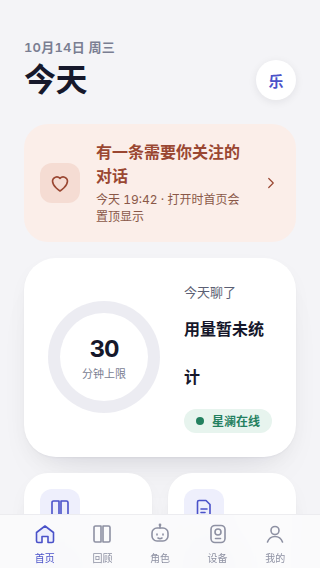
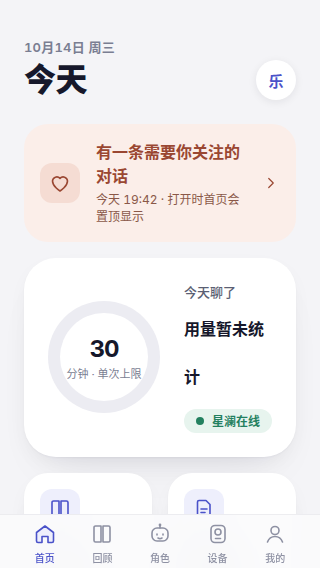
docs(miniprogram): v4 test report and shots for the session-limits read, offline stories and 关于 filing
03-home and 06-usage were shot again, along with the home and device page shots at 390 and 320. 03-home went from 0.0703 to 0.0711 and 06-usage from 0.1825 to 0.1823. compare-summary.json and pages/results.json were updated for those screens only.

The report now says that home reads today_used_minutes, which is always null, and that the ring shows the per-session cap without filling. The device page lists the three firmware story titles. 关于 names DeepSeek with its filing number, shown from the recorded wx.showModal call, because the harness cannot draw a native modal.

The stories bullet now says the clips are production recordings in a trial voice. It no longer calls them sine placeholders. Test counts, package size and the home and device setData numbers are measured again.

diff --git a/docs/design/app-v4/TEST-REPORT.md b/docs/design/app-v4/TEST-REPORT.md
@@ -2,19 +2,19 @@
 
 This report records how the v4 restyle of the Memoria WeChat mini program was tested on branch `cursor/miniprogram-design-v4-14a0`. It covers every page under `apps/miniprogram/pages`. It lists the commands, the measured results, side-by-side images against the design PNGs in this folder, and each place where the mini program still differs from the design.
 
-The performance table comes from runs on 2026-10-14. The unit tests, forbidden-copy check, package size, layout shots and the 05-attention and 09-memory parity ratios were measured again on 2026-10-15. Both days used a Linux cloud VM with 4 cores, Node v22.14.0 and headless Chrome driven by puppeteer-core. Nothing ran in WeChat DevTools, through miniprogram-automator or on a phone, because none of them is available on the VM. The harness approximates the WeChat renderer. Read the images as close evidence of layout and copy, not as proof of on-device pixels.
+The performance table comes from runs on 2026-10-14. The unit tests, forbidden-copy check, package size, layout shots and the 05-attention and 09-memory parity ratios were measured again on 2026-10-15. Later that day, the session-limits and stories change made home and device read two new parent APIs. The tests, package size, 03-home and 06-usage parity shots, and the home and device page shots were then measured a third time. Both days used a Linux cloud VM with 4 cores, Node v22.14.0 and headless Chrome driven by puppeteer-core. Nothing ran in WeChat DevTools, through miniprogram-automator or on a phone, because none of them is available on the VM. The harness approximates the WeChat renderer. Read the images as close evidence of layout and copy, not as proof of on-device pixels.
 
 ## Results
 
 | Check | Result |
 |---|---|
-| Unit, function, perf and layout tests (`npm test`) | 525 of 525 pass, 0 skipped |
+| Unit, function, perf and layout tests (`npm test`) | 529 of 529 pass, 0 skipped |
 | Forbidden UI copy (`npm run check:forbidden-copy`) | Pass on 63 files |
 | `12356` in shipped `.js`, `.wxml`, `.json` and `.wxss` files | Only in `pages/attention/index.wxml`, tip 4, pinned by `attention-v4.test.js` |
-| `node --check` on every tracked JS file in the app | 0 failures in 134 files |
+| `node --check` on every tracked JS file in the app | 0 failures in 135 files |
 | Page screenshots at five views (`scripts/screenshot-pages.js`) | 145 shots, 0 layout issues |
 | Parity side-by-sides (`scripts/v4-parity/render-and-compare.js`) | 9 mapped screens, diffRatio 0.056 to 0.298, down from 0.245 to 0.647 |
-| Main package before minification (`scripts/package-size.js`) | 1870.4 KiB of the 2048 KiB limit |
+| Main package before minification (`scripts/package-size.js`) | 1870.9 KiB of the 2048 KiB limit |
 
 ## How the harness works
 
@@ -76,15 +76,17 @@ Do not run `npm --prefix apps/miniprogram exec -- node scripts/v4-parity/render-
 |---|---|---:|---:|---:|
 | 01-login | `pages/home`, guest | 0.6475 | 0.0575 | 0.0572 |
 | 02-consent | `pages/auth`, guest | 0.3906 | 0.0945 | 0.0883 |
-| 03-home | `pages/home`, signed in | 0.3162 | 0.0703 | 0.0490 |
+| 03-home | `pages/home`, signed in | 0.3162 | 0.0711 | 0.0490 |
 | 04-summary | `pages/memory`, today summarized | 0.3394 | 0.1901 | 0.0430 |
 | 05-attention | `pages/attention`, one open alert | 0.4991 | 0.0561 | 0.0536 |
-| 06-usage | `pages/device`, child usage settings | 0.2527 | 0.1825 | 0.0527 |
+| 06-usage | `pages/device`, child usage settings | 0.2527 | 0.1823 | 0.0527 |
 | 08-roles | `pages/companion` | 0.3539 | 0.1810 | 0.0727 |
 | 09-memory | `pages/child-memory`, long-term memory | 0.3706 | 0.2984 | 0.0279 |
 | 10-profile | `pages/profile`, signed in | 0.2450 | 0.0715 | 0.0116 |
 
 Before is the committed `compare-summary.json` at `b63fa853`. That run shot 05-attention on the review tab, where the alert rendered inline. It now shoots the attention detail page the design shows. A rerun on 2026-10-15 with Noto Sans CJK SC left 01-login byte-identical to the committed shot. The other screens whose pages did not change moved by at most 0.006 against the design, from font raster differences, so their shots stay. 05-attention and 09-memory are the screens this change redraws.
+
+The session-limits and stories change redraws 03-home and 06-usage, and only those two were shot again. 03-home went from 0.0703 to 0.0711. Its ring band, from 316 CSS px, rose from 0.122 to 0.125 when the caption grew from 「分钟上限」 to 「分钟 · 单次上限」. 06-usage went from 0.1825 to 0.1823. The new 离线故事 card fills the space below 安静时段 where the privacy rows were. The design shows other content there, so the card counts as a difference just as the rows did. 10-profile was not shot again. Its page looks the same, and the new 关于 line lives in a native modal the harness cannot draw.
 
 ### Where the remaining difference sits
 
@@ -94,10 +96,10 @@ Before is the committed `compare-summary.json` at `b63fa853`. That run shot 05-a
 |---|---:|---:|---:|---:|---:|---:|---:|---:|
 | 01-login | 0.001 | 0.063 | 0.001 | 0.095 | 0.191 | 0.044 | 0.034 | 0.031 |
 | 02-consent | 0.019 | 0.039 | 0.043 | 0.139 | 0.098 | 0.232 | 0.111 | 0.075 |
-| 03-home | 0.016 | 0.065 | 0.072 | 0.122 | 0.032 | 0.116 | 0.122 | 0.017 |
+| 03-home | 0.016 | 0.066 | 0.072 | 0.125 | 0.033 | 0.116 | 0.122 | 0.020 |
 | 04-summary | 0.017 | 0.059 | 0.040 | 0.063 | 0.055 | 0.349 | 0.769 | 0.168 |
 | 05-attention | 0.004 | 0.008 | 0.030 | 0.082 | 0.052 | 0.077 | 0.108 | 0.088 |
-| 06-usage | 0.024 | 0.066 | 0.161 | 0.045 | 0.260 | 0.444 | 0.287 | 0.172 |
+| 06-usage | 0.027 | 0.070 | 0.165 | 0.045 | 0.260 | 0.444 | 0.273 | 0.175 |
 | 08-roles | 0.013 | 0.068 | 0.260 | 0.110 | 0.268 | 0.126 | 0.543 | 0.061 |
 | 09-memory | 0.039 | 0.076 | 0.029 | 0.100 | 0.110 | 0.377 | 0.688 | 0.969 |
 | 10-profile | 0.000 | 0.039 | 0.030 | 0.032 | 0.015 | 0.015 | 0.262 | 0.179 |
@@ -128,7 +130,9 @@ The checkbox names 《隐私保护指引》, the document `wx.openPrivacyContrac
 
 ![03-home, live page left, design right](mp-screenshots/side-by-side/03-home.png)
 
-The cards, radii, shadows, gaps, type scale and icon tiles follow the design. The three bands above 0.1 are the ring, the stat units and the memory card. The ring shows the 30 minute limit on an empty track with 「用量暂未统计」, because no API field reports minutes used today. `home-v4-dashboard.test.js` covers both the empty ring and a ring filled from a real tally. 「今天对话 3 次」 replaces 「今天讲了 3 个故事」, and the 孩子的记忆 card replaces 今晚推荐, because no story field exists. The AI disclosure line replaces 「名字和数字均为示例」, and the pill names the fixture's role, 星澜.
+The cards, radii, shadows, gaps, type scale and icon tiles follow the design. The three bands above 0.1 are the ring, the stat units and the memory card. The ring shows the per-session cap from the signed Runtime Profile, 30 with 「分钟 · 单次上限」, on a track that never fills. Before this change the caption read 「分钟上限」, and the page had a fill path for a used-minutes tally divided by that cap. A per-day total over a per-session cap is the wrong ratio, so that path is gone. When the profile has no cap, the ring reads 未设置 above 单次上限, where it used to show a made-up 30.
+
+Home now reads `today_used_minutes` from `GET /v1/devices/{device_id}/session-limits`. The server always returns null, because nothing tallies minutes per day, so the line beside the ring reads 「用量暂未统计」. A number would show as 「今天聊了 N 分钟」 without a client release. `home-v4-dashboard.test.js` covers null, 18 and a failed call. 「今天对话 3 次」 replaces 「今天讲了 3 个故事」, and the 孩子的记忆 card replaces 今晚推荐, because no story field exists. The AI disclosure line replaces 「名字和数字均为示例」, and the pill names the fixture's role, 星澜.
 
 ### 04-summary
 
@@ -146,7 +150,9 @@ The attention detail page is new. Home's attention card and the review banner op
 
 ![06-usage, live page left, design right](mp-screenshots/side-by-side/06-usage.png)
 
-The slider card, the quiet-hours card, the online pill and the row chrome follow the design. The band from 211 CSS px is the ring, which shows the limit with 「用量暂未统计」 for the same reason as home. From 422 CSS px down, the difference is the design's second slider, 每天上限. The device enforces only the signed per-session `MAX_SESSION_SECONDS` limit, in `services/agent/src/voice_core/minor_session_limits.py`, so the page has one 单次上限 slider from 15 to 60 minutes. The design's 单次上限 runs from 10 to 30. 安静时段 shows the real window from 21:00 to 07:00 in place of 即将上线. That chip is wider, so the card copy wraps one character earlier. With one slider, the 隐私说明 and 管理与导出数据 rows rise into view. The eyebrow names the device with `devicePlaceName`, so it reads 「设备 · 孩子的星澜」.
+The slider card, the quiet-hours card, the online pill and the row chrome follow the design. The band from 211 CSS px is the ring. It shows the cap with 「分钟 · 单次上限」 and 「用量暂未统计」 for the same reason as home, and reads 未设置 when the profile has no cap. From 422 CSS px down, the difference is the design's second slider, 每天上限. The device enforces only the signed per-session `MAX_SESSION_SECONDS` limit, in `services/agent/src/voice_core/minor_session_limits.py`, so the page has one 单次上限 slider from 15 to 60 minutes. The design's 单次上限 runs from 10 to 30. 安静时段 shows the real window from 21:00 to 07:00 in place of 即将上线. That chip is wider, so the card copy wraps one character earlier. The eyebrow names the device with `devicePlaceName`, so it reads 「设备 · 孩子的星澜」.
+
+Before this change, the 隐私说明 and 管理与导出数据 rows came next. Now the 离线故事 card sits there, with the caption 「不联网也能听」 and one row per title from `GET /v1/devices/{device_id}/stories`. The first title, 小星星的枕头, is the last row above the tab bar. The privacy rows moved below the fold, and the full page grew by 288 px at 390. When the call fails or the list is empty, the card reads 「暂无可显示的离线故事」. The card shows titles only, with no play button, because the clips play on the robot. The band from 633 CSS px fell from 0.287 to 0.273.
 
 ### 08-roles
 
@@ -166,7 +172,17 @@ Three content differences remain. The title names the child, 乐乐的记忆, wh
 
 ![10-profile, live page left, design right](mp-screenshots/side-by-side/10-profile.png)
 
-The page has the design's title, the account card with 「已绑定 1 台设备」, the device card with the mascot, and the four rows 设备管理, 授权与隐私说明, 帮助与反馈 and 关于. 帮助与反馈 is WeChat's native feedback button. 关于 shows 「陪孩子聊天、讲故事的 AI 助手。」 and the version. 授权与隐私说明 opens the raw-audio consent page when that capability is open, and WeChat's privacy guideline otherwise. The role and custom persona rows moved to the 角色 tab.
+The page has the design's title, the account card with 「已绑定 1 台设备」, the device card with the mascot, and the four rows 设备管理, 授权与隐私说明, 帮助与反馈 and 关于. 帮助与反馈 is WeChat's native feedback button. 授权与隐私说明 opens the raw-audio consent page when that capability is open, and WeChat's privacy guideline otherwise. The role and custom persona rows moved to the 角色 tab.
+
+关于 opens a native modal with three lines: 「陪孩子聊天、讲故事的 AI 助手。」, 「对话大模型：DeepSeek（备案号 Beijing-DeepseekChat-202404280016）」 and the version. The filing line names DeepSeek only. Before this change the modal had the tagline and the version. The harness cannot draw a native modal, and the page itself did not change, so this shot was not taken again. The evidence is the `wx.showModal` call that `profile-v4.test.js` records in a develop build:
+
+```text
+title: 关于 Memoria
+content: 陪孩子聊天、讲故事的 AI 助手。
+         对话大模型：DeepSeek（备案号 Beijing-DeepseekChat-202404280016）
+         开发版
+showCancel: false, confirmText: 知道了
+```
 
 The device card reads 孩子的星澜 with 已绑定设备, not 小乐 with 在线, because the profile page does not fetch presence. The two bottom bands are the 账号 group with 账号编号, 退出当前设备, 退出所有设备 and 永久注销, which the design does not show. The design's 「绑定新设备请在 Memoria 小程序中完成」 is gone, because this is the mini program and binding lives on the 设备 tab. The version line reads 「版本 x.y.z」 in a release build and 开发版 or 体验版 before release, never 「版本 0.1 设计稿」.
 
@@ -184,9 +200,9 @@ These come from WeChat or the test machine, and no page change removes them.
 
 ### Differences the data and copy rules require
 
-- Used minutes. No call in `utils/api.js` returns minutes used per day, and `pages/home/index.js` builds the card without `usedMinutes`. The ring shows the limit on an empty track with 「用量暂未统计」.
-- Stories. The firmware holds three offline story clips, `kOfflineStoryCount = 3` in `firmware/esp32/overlay/files/main/memoria/memoria_offline_menu.h`. `firmware/esp32/scripts/build_offline_stories.py` packs them as ffmpeg sine placeholders until product recordings replace them. The firmware titles are 小星星的枕头, 月亮不着急 and 大熊和森林里的悄悄话. The design catalogue titles are 大熊和森林里的悄悄话, 小兔的纸船月亮 and 小狐狸收集星星. Neither list is shown in the parent app. `utils/api.js` has no story call, so home shows 「今天对话 N 次」 in place of a story count or 今晚推荐, and 07-content has no page.
-- Daily cap. The signed Runtime Profile carries only `MAX_SESSION_SECONDS` and `QUIET_HOURS` for a minor, in `services/agent/src/voice_core/minor_session_limits.py`. The only limit write is `setSessionLimits` with `max_session_minutes`. Nothing enforces a per-day budget, so 06-usage has one 单次上限 slider.
+- Used minutes. Home reads `today_used_minutes` from `GET /v1/devices/{device_id}/session-limits` and passes it to the card. The field is typed as always null, because nothing tallies minutes per day, so home shows 「用量暂未统计」. The ring shows the per-session cap and does not fill.
+- Stories. The firmware holds three offline story clips, `kOfflineStoryCount = 3` in `firmware/esp32/overlay/files/main/memoria/memoria_offline_menu.h`. The clips are Opus recordings copied in by hand. `firmware/esp32/scripts/build_offline_stories.py` checks them and writes `stories/index.json`, which marks all three as production clips and their voice as 「trial/demo only pending Volcengine terms」. The firmware titles are 小星星的枕头, 月亮不着急 and 大熊和森林里的悄悄话. The device page lists them under 离线故事 from `GET /v1/devices/{device_id}/stories`. The control API copies the titles in `OFFLINE_STORIES`, and `test_offline_stories.py` fails when the copy and `index.json` disagree. The design catalogue titles, 大熊和森林里的悄悄话, 小兔的纸船月亮 and 小狐狸收集星星, appear nowhere. Home still shows 「今天对话 N 次」 in place of a story count or 今晚推荐, and 07-content has no page, because the app cannot play a story.
+- Daily cap. The signed Runtime Profile carries only `MAX_SESSION_SECONDS` and `QUIET_HOURS` for a minor, in `services/agent/src/voice_core/minor_session_limits.py`. The guardian writes them with `PUT /v1/devices/{device_id}/session-limits` and can read them back with the GET, which has no daily field. Nothing enforces a per-day budget, so 06-usage has one 单次上限 slider. A slider save with no stored quiet window sends `quiet_hours: null` instead of writing 21:00 to 07:00.
 - Battery. No battery level appears, because no API field backs it.
 - 12356 appears only as attention tip 4. None of 危机, 伙伴, 好朋友, 家人, 推送 or 通知 appears in the UI.
 - Subscription and push UI stays behind `subscriptionPushEnabled`, which defaults to false.
@@ -200,7 +216,7 @@ These come from WeChat or the test machine, and no page change removes them.
 
 - Long-term memory opens without a back button like the design, has no tab bar, and keeps per-fact dates and delete buttons.
 - 记住的事 opens from a row under the day cards, not a switcher.
-- The quiet-hours chip shows the real window, and the privacy rows follow it on the usage screen.
+- The quiet-hours chip shows the real window. The 离线故事 card and then the privacy rows follow it on the usage screen.
 - The profile keeps the account and deletion actions below the menu, and drops the design's binding note.
 
 ## Layout checks across widths
@@ -282,7 +298,9 @@ These numbers come from one run at the 390 view.
 | device-onboarding-progress | 1.3 | 1.4 | 33 | 3 | 1371 | 2347 |
 | device-onboarding-complete | 1.3 | 1.4 | 34 | 3 | 1371 | 2316 |
 
-The test budget per state is at most 16 setData calls, no call over 16 KiB and at most 32 KiB in total. The largest call is 4323 B on device, and the most calls are 11 on profile and guardian. home, device and device-onboarding load slowest because each is the first state of its page in the run and pays for the first require of its modules. The later states of home and device-onboarding load in 1.2 to 1.6 ms. That cause is inferred from the pattern, not profiled.
+After the session-limits and stories change, home and device were measured again. Home makes 3 calls, the largest 2165 B, 2367 B in total. Its data no longer holds the ring percent or a quiet-hours line. Device makes 7 calls, the largest 4492 B, 5291 B in total. Its data now holds the three story titles. The table keeps the 2026-10-14 run.
+
+The test budget per state is at most 16 setData calls, no call over 16 KiB and at most 32 KiB in total. The largest call in the table is 4323 B on device, and the most calls are 11 on profile and guardian. home, device and device-onboarding load slowest because each is the first state of its page in the run and pays for the first require of its modules. The later states of home and device-onboarding load in 1.2 to 1.6 ms. That cause is inferred from the pattern, not profiled.
 
 ### Long lists
 
@@ -299,7 +317,7 @@ Frame intervals sit at 16.7 ms, the 60 Hz frame clock of headless Chrome on the 
 
 ### Package size
 
-The shipped files total 1915266 B, 1870.4 KiB of WeChat's 2048 KiB main package limit before minification. `package-size.js` follows `packOptions.ignore` in `project.config.example.json` plus the folders the runtime never loads. It skips `tests`, `design-preview`, `scripts`, `node_modules`, `assets/companions`, `package.json`, `package-lock.json`, `project.config*.json` and Markdown files. The profile mascot, `assets/ui/v4/mascot-happy.jpg`, adds 32.4 KiB.
+The shipped files total 1915848 B, 1870.9 KiB of WeChat's 2048 KiB main package limit before minification. `package-size.js` follows `packOptions.ignore` in `project.config.example.json` plus the folders the runtime never loads. It skips `tests`, `design-preview`, `scripts`, `node_modules`, `assets/companions`, `package.json`, `package-lock.json`, `project.config*.json` and Markdown files. The profile mascot, `assets/ui/v4/mascot-happy.jpg`, adds 32.4 KiB.
 
 | Folder | Size (KiB) |
 |---|---:|
@@ -308,20 +326,21 @@ The shipped files total 1915266 B, 1870.4 KiB of WeChat's 2048 KiB main package 
 | utils/device-onboarding | 166.1 |
 | assets/voices | 145.8 |
 | assets/bg | 138.7 |
-| pages/device | 99.9 |
+| pages/device | 101.3 |
 | utils/device-binding.js | 60.4 |
-| utils/api.js | 51.6 |
-| pages/bind | 45.3 |
+| utils/api.js | 51.8 |
+| pages/bind | 44.9 |
 | generated/multi-subject-contracts.js | 42.5 |
 
 ## Function tests
 
 Each v4 test file loads the live page through the harness, drives its handlers the way a tap would and asserts on the resulting data, the rendered text or the API payload.
 
-`home-v4-dashboard.test.js` has 12 tests.
+`home-v4-dashboard.test.js` has 13 tests.
 
-- The home ring shows the usage limit without inventing used minutes.
-- The home ring fills from a real used-minutes tally when one exists.
+- The home ring shows the per-session cap without inventing used minutes.
+- Home shows today's minutes only when the session-limits read carries them, as 「今天聊了 18 分钟」 with no percent, and 「用量暂未统计」 when the call fails.
+- The home ring reads 未设置 when the signed profile carries no session cap.
 - Home counts only today's summaries and today's conversations.
 - Home pins the attention card with its time and the open-to-pin meta.
 - Home hides the safety subscribe card unless subscription push is enabled.
@@ -358,11 +377,12 @@ Each v4 test file loads the live page through the harness, drives its handlers t
 - The home attention card and the review banner both open the attention page.
 - 12356 ships only in the attention page's fourth tip.
 
-`device-v4.test.js` has 3 tests.
+`device-v4.test.js` has 4 tests.
 
-- The usage screen shows the real quiet window as the card chip and the privacy rows below.
+- The usage screen shows the real quiet window as the card chip, then the offline stories and the privacy rows.
 - Releasing the 单次上限 slider at 60 saves 60 minutes with the stored quiet window.
 - The usage slider names the per-session limit the device enforces, never a daily cap.
+- The usage screen reads 未设置 when the signed profile has quiet hours but no cap.
 
 `mp-slider.test.js` has 10 tests.
 
@@ -399,7 +419,7 @@ Each v4 test file loads the live page through the harness, drives its handlers t
 - Returning to the tab keeps the robot's name on screen while the profile refreshes.
 - A guest still gets privacy, feedback and about, and 微信登录 opens the login page.
 - 帮助与反馈 is WeChat's native feedback button.
-- 关于 shows the release version, or the build channel before release.
+- 关于 names the filed chat model and the release version, or the build channel before release. It pins the literal 「对话大模型：DeepSeek（备案号 Beijing-DeepseekChat-202404280016）」 and rejects any other model name.
 - 授权与隐私说明 opens the consent page when raw-audio consent is open, and the WeChat privacy guideline otherwise.
 
 `template-handlers.test.js` has 3 tests.
@@ -473,7 +493,8 @@ Older tests that asserted v3 strings, structure or removed rows now assert the v
 - `sensitive-entry-gates.test.js` asserts that a closed raw-audio capability opens the privacy guideline with no toast.
 - `guardian-flow.test.js`, `home-status-board.test.js` and `no-realtime-media-gate.test.js` follow the profile's new menu.
 - `bind-flow.test.js` completes a parent-for-child bind without a subscribe prompt while the push flag is off.
-- `device-page.test.js` asserts the 单次上限 label in the usage card.
+- `device-page.test.js` asserts the 单次上限 label in the usage card. It also asserts that a slider save with no stored quiet window sends `quiet_hours: null`. Its mock routes `GET /stories`, and it checks the three titles and the empty line.
+- `home-status-board.test.js` asserts that an unset profile gives no cap, no quiet label and no night mode.
 - `guest-login-flow.test.js` asserts the 微信一键登录 hero on home and the guest prompt on the review tab.
 
 ## Gaps
@@ -481,7 +502,9 @@ Older tests that asserted v3 strings, structure or removed rows now assert the v
 - Nothing ran in WeChat DevTools, through miniprogram-automator or on a phone. Images and timings come from Chrome on the VM, and native components such as `switch` and `picker` are approximations.
 - CI runs only on pull requests, and no pull request is open for this branch, so CI has not run `v4-layout.test.js`. If the CI runner lacks Chrome, the layout test skips. If it lacks CJK fonts, the text metrics differ from these results.
 - No screen is pixel-identical to the design. 01-login scores its floor. The others sit 0.002 to 0.27 above their floors, for the reasons listed under each image.
-- The home ring reads 「今天聊了」 above 「30 分钟上限」, which a parent may take as a daily figure, while the device enforces only a per-session limit. Relabelling the ring or adding a daily cap to the backend is a product decision.
+- The home ring no longer fills, which differs from the v4 design. Its caption reads 「分钟 · 单次上限」, so a parent no longer reads the cap as a daily figure. A filled ring needs a daily cap, and adding one to the backend is a product decision.
+- `today_used_minutes` is always null. The usage line fills in only once the server tallies minutes per day, and no such tally exists.
+- The 离线故事 titles are a copy in the control API, `services/control_api/app/offline_stories.py`, guarded by a parity test against the firmware `index.json`. The list does not vary by firmware build.
 - The design's long-term memory rows carry a caption per field, such as 「孩子喜欢被这样叫」. The app shows each fact's date there. Swapping the dates for the captions is a product decision.
 - The profile no longer shows the 自动整理日常回顾 switch. The control API stores and exports `auto_summary`, but no summarizer reads it, so the switch changed nothing. It can return on the review tab once the server honours it.
 - `pages/profile/index.js` still holds voice-clone helpers such as `mediaTypeForPath` and the `deliveredCapabilities` state, which no profile row uses now.
